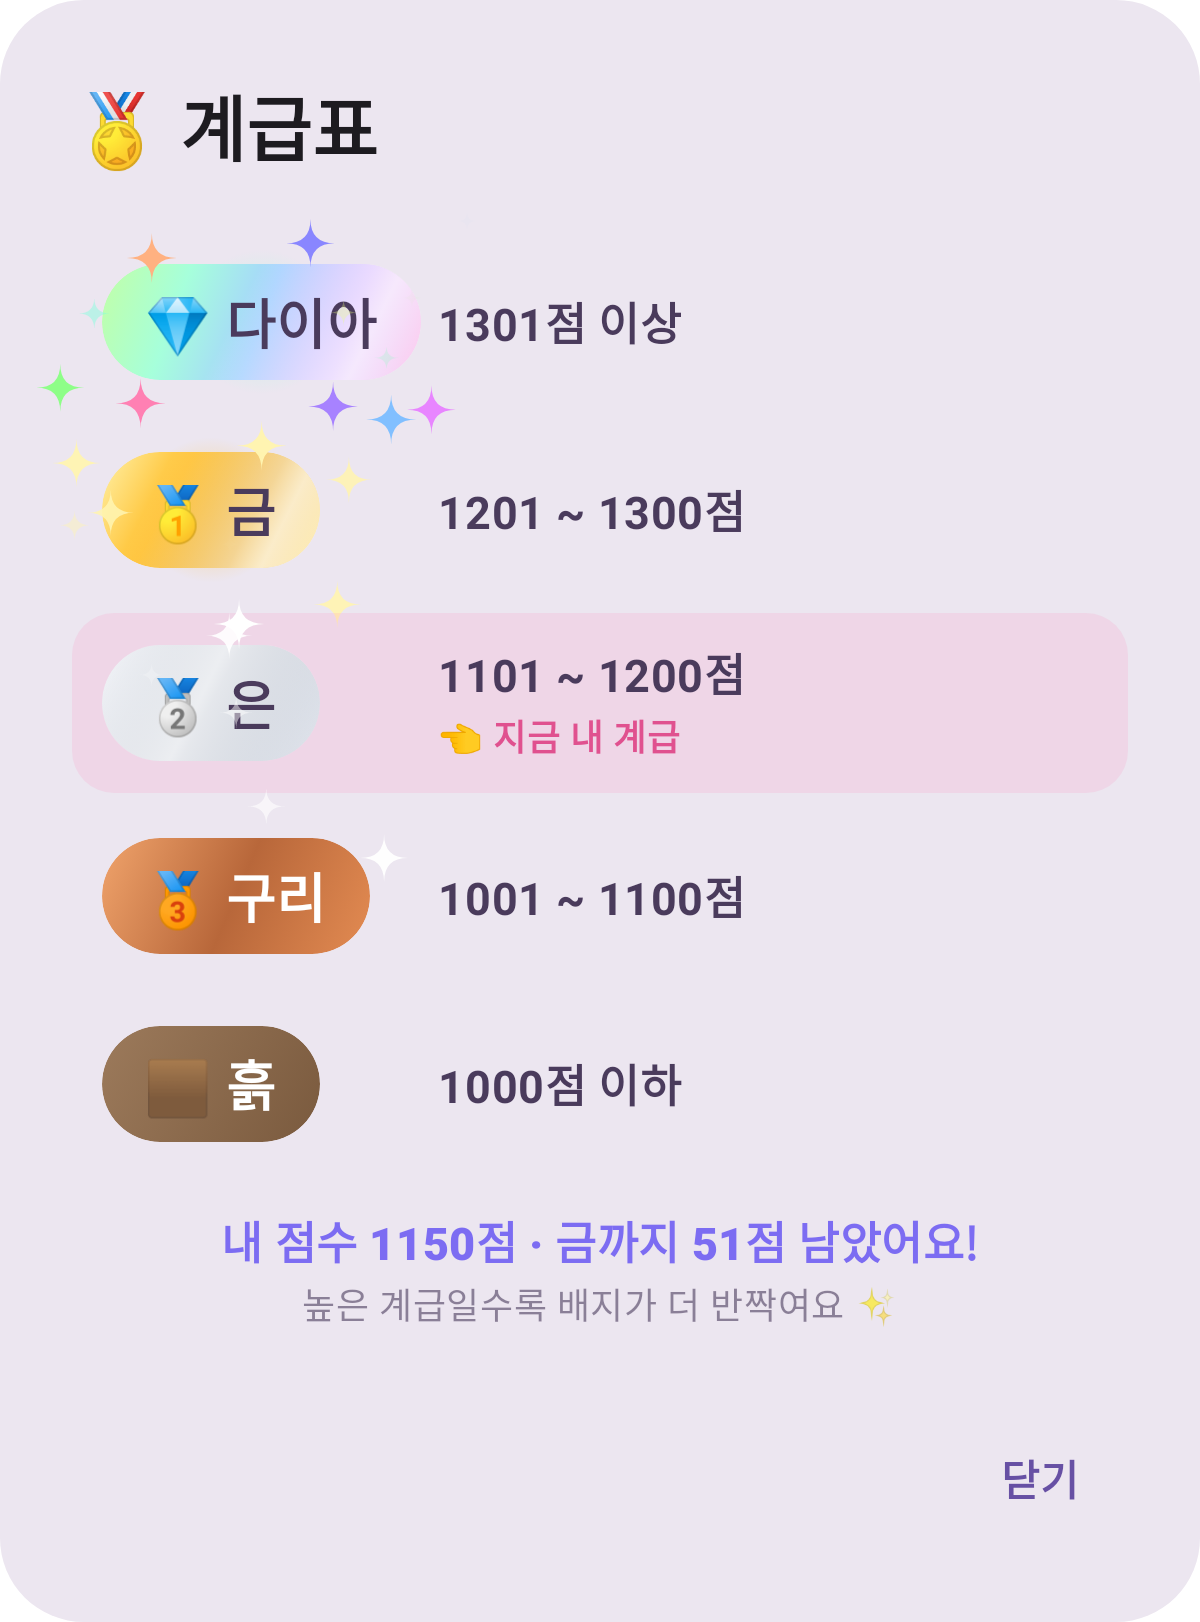
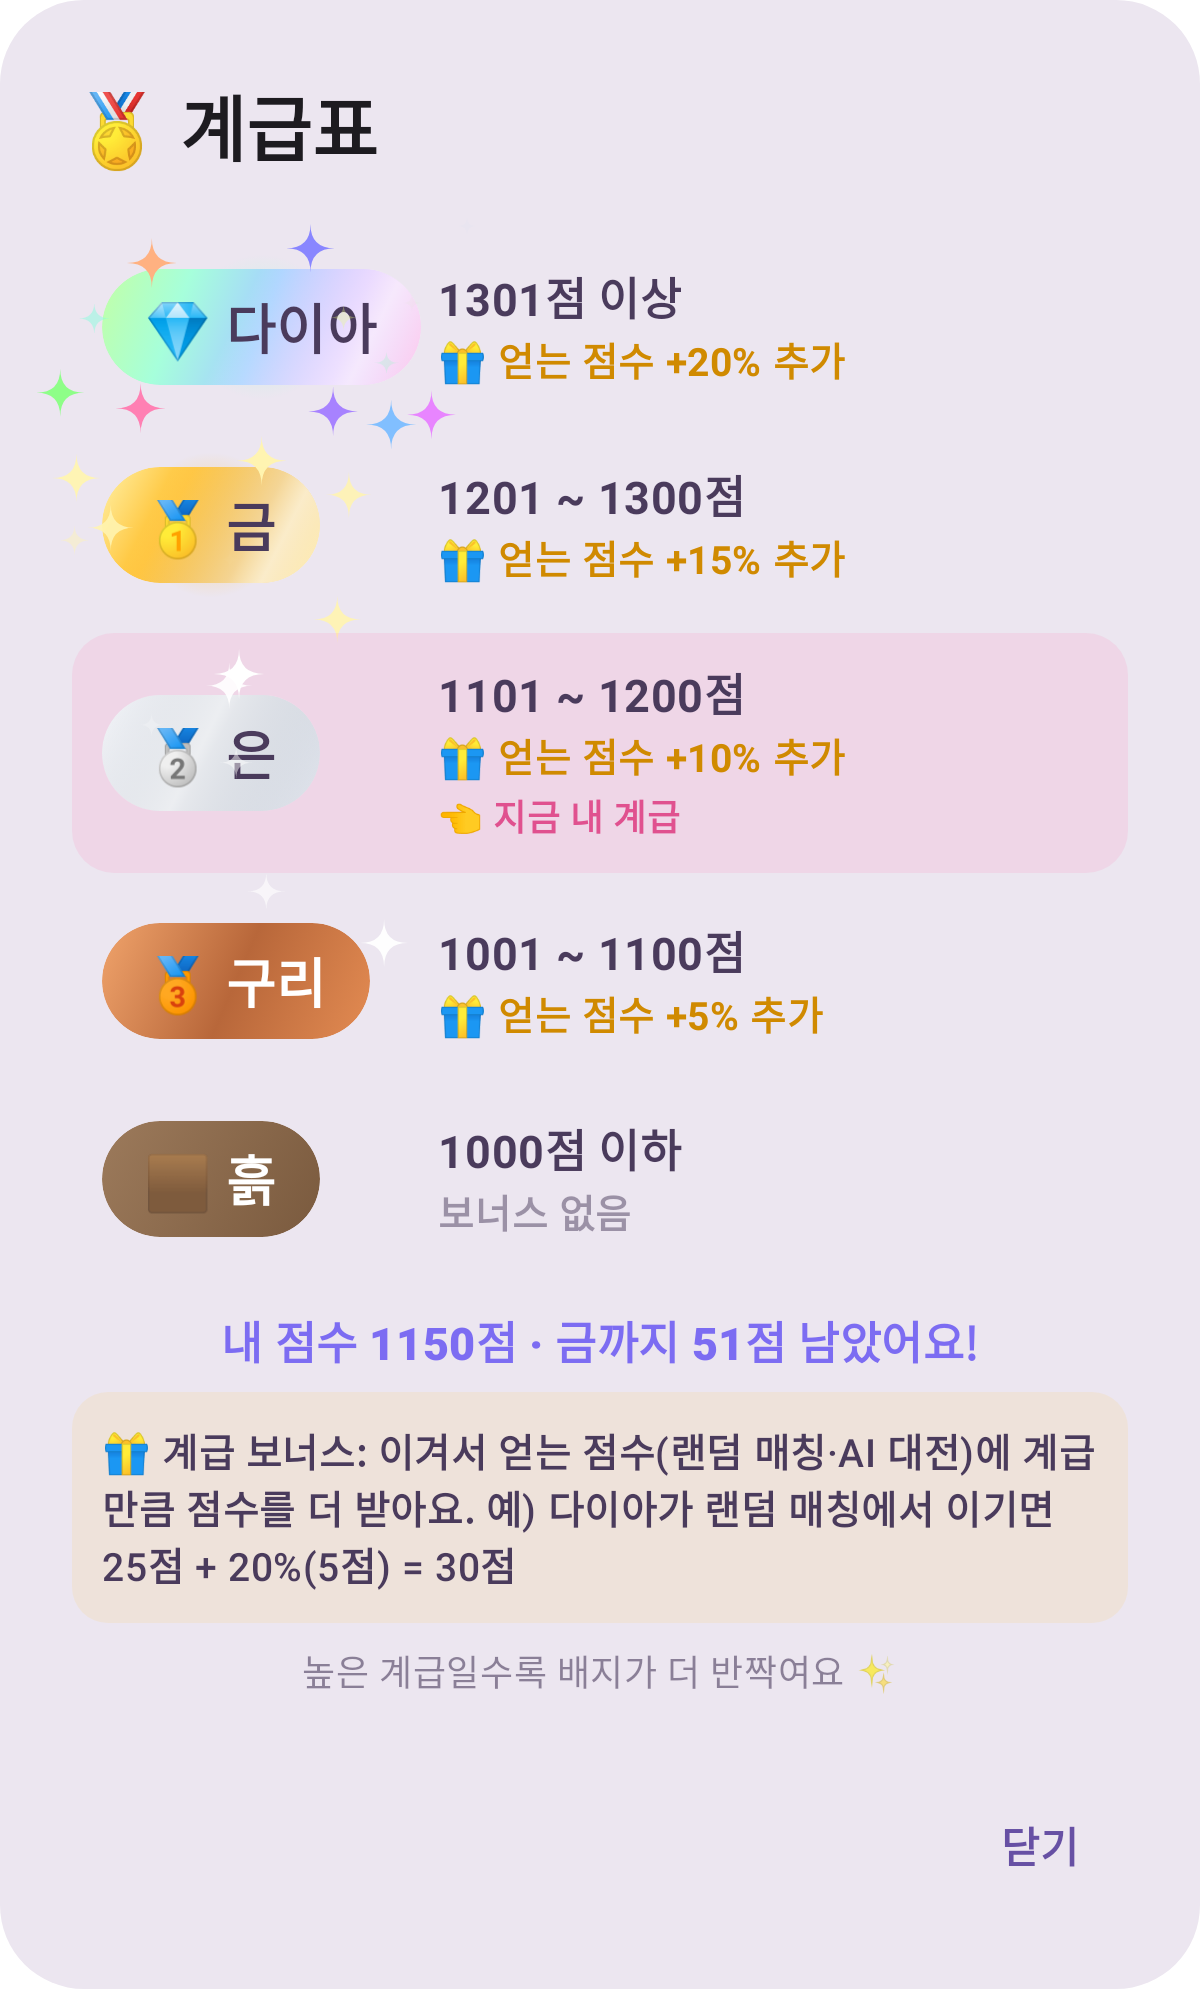
Add rank bonus on earned points (copper 5% to diamond 20%)
Server adds the winner's rank bonus to online and AI wins and records it
on the game; the result screen and rank popup explain the bonus.

Claude-Session: https://claude.ai/code/session_01BuUDiGkM2tHykbpiLtTpg7

diff --git a/app/src/main/java/com/bubble/game/ui/Screens.kt b/app/src/main/java/com/bubble/game/ui/Screens.kt
@@ -698,6 +698,12 @@ private fun ResultOverlay(g: GameUi, rewardOffer: Int?, onLobby: () -> Unit, onA
                         fontSize = 26.sp, fontWeight = FontWeight.Black,
                         color = if ((d ?: 0) >= 0) Ui.accent else Ui.danger,
                     )
+                    if (g.scoreBonus > 0) {
+                        Text(
+                            "✨ 계급 보너스 +${g.scoreBonus}점 포함",
+                            fontSize = 14.sp, fontWeight = FontWeight.Bold, color = Ui.gold.copy(red = 0.85f, green = 0.6f, blue = 0f),
+                        )
+                    }
                     if (rewardOffer != null) {
                         Text(
                             "📺 로비로 갈 때 광고를 보면 ${rewardOffer}점을 돌려받아요",
@@ -1073,6 +1079,11 @@ private fun RanksDialog(myScore: Int, onDismiss: () -> Unit) {
                         }
                         Column(Modifier.weight(1f)) {
                             Text(range, fontWeight = FontWeight.Bold, fontSize = 15.sp, color = Ui.text)
+                            Text(
+                                if (r.bonusPercent > 0) "🎁 얻는 점수 +${r.bonusPercent}% 추가" else "보너스 없음",
+                                fontSize = 13.sp, fontWeight = FontWeight.Bold,
+                                color = if (r.bonusPercent > 0) Color(0xFFD08A00) else Ui.text.copy(alpha = 0.5f),
+                            )
                             if (isMine) Text("👈 지금 내 계급", fontSize = 12.sp, fontWeight = FontWeight.Black, color = Ui.primaryDark)
                         }
                     }
@@ -1087,6 +1098,18 @@ private fun RanksDialog(myScore: Int, onDismiss: () -> Unit) {
                     fontWeight = FontWeight.Black, fontSize = 15.sp, color = Ui.accent,
                     textAlign = TextAlign.Center, modifier = Modifier.fillMaxWidth(),
                 )
+                Spacer(Modifier.height(6.dp))
+                Text(
+                    "🎁 계급 보너스: 이겨서 얻는 점수(랜덤 매칭·AI 대전)에 계급만큼 점수를 더 받아요. " +
+                        "예) 다이아가 랜덤 매칭에서 이기면 25점 + 20%(5점) = 30점",
+                    fontSize = 13.sp, fontWeight = FontWeight.SemiBold, color = Ui.text,
+                    lineHeight = 19.sp,
+                    modifier = Modifier
+                        .fillMaxWidth()
+                        .background(Color(0x22FFC94D), RoundedCornerShape(12.dp))
+                        .padding(10.dp),
+                )
+                Spacer(Modifier.height(6.dp))
                 Text(
                     "높은 계급일수록 배지가 더 반짝여요 ✨",
                     fontSize = 12.sp, color = Ui.text.copy(alpha = 0.6f),

diff --git a/functions/src/index.ts b/functions/src/index.ts
@@ -9,7 +9,7 @@ import { CallableRequest, HttpsError, onCall, onRequest } from "firebase-functio
 import { logger } from "firebase-functions";
 import { googleKeyLookup, verifySsv } from "./ssv";
 import { AiLevel, chooseMove, isAiLevel } from "./ai";
-import { ANIMALS, DEFAULT_TURN_MS, POTION_PRICE, revivesForGame, turnLimitAgainst } from "./catalog";
+import { ANIMALS, DEFAULT_TURN_MS, POTION_PRICE, rankBonus, revivesForGame, turnLimitAgainst } from "./catalog";
 import { applyMove, Board, decodeMove, isLegal, MAX_SPLITS, opponent, Side, winner } from "./game";
 
 initializeApp();
@@ -113,17 +113,22 @@ function finishGame(
     const human: Side = game.catUid === AI_UID ? "HAMSTER" : "CAT";
     const humanSnap = human === "CAT" ? users.cat : users.ham;
     const pts = AI_POINTS[game.vsAi];
-    const delta = win === human ? pts.win : -Math.min(-pts.lose, score(humanSnap));
+    const bonus = win === human ? rankBonus(pts.win, score(humanSnap)) : 0;
+    const delta = win === human ? pts.win + bonus : -Math.min(-pts.lose, score(humanSnap));
     tx.update(gameRef, {
       ...extra, status: "finished", winner: win, reason,
       [human === "CAT" ? "catDelta" : "hamDelta"]: delta,
+      [human === "CAT" ? "catBonus" : "hamBonus"]: bonus,
     });
     if (delta !== 0) tx.update(humanSnap.ref, { score: FieldValue.increment(delta) });
     return;
   }
-  const catDelta = catWon ? WIN_POINTS : -Math.min(LOSE_POINTS, score(users.cat));
-  const hamDelta = catWon ? -Math.min(LOSE_POINTS, score(users.ham)) : WIN_POINTS;
-  tx.update(gameRef, { ...extra, status: "finished", winner: win, reason, catDelta, hamDelta });
+  // 이긴 쪽은 계급 보너스(구리 5% ~ 다이아 20%)를 더 받음
+  const catBonus = catWon ? rankBonus(WIN_POINTS, score(users.cat)) : 0;
+  const hamBonus = catWon ? 0 : rankBonus(WIN_POINTS, score(users.ham));
+  const catDelta = catWon ? WIN_POINTS + catBonus : -Math.min(LOSE_POINTS, score(users.cat));
+  const hamDelta = catWon ? -Math.min(LOSE_POINTS, score(users.ham)) : WIN_POINTS + hamBonus;
+  tx.update(gameRef, { ...extra, status: "finished", winner: win, reason, catDelta, hamDelta, catBonus, hamBonus });
   tx.update(users.cat.ref, {
     score: FieldValue.increment(catDelta),
     [catWon ? "wins" : "losses"]: FieldValue.increment(1),

diff --git a/app/src/main/java/com/bubble/game/data/OnlineRepository.kt b/app/src/main/java/com/bubble/game/data/OnlineRepository.kt
@@ -62,6 +62,9 @@ data class OnlineGame(
     val turnStartedAt: Long,
     val catDelta: Int?,
     val hamDelta: Int?,
+    /** 이긴 쪽이 받은 계급 보너스 점수 (catDelta/hamDelta에 포함됨) */
+    val catBonus: Int,
+    val hamBonus: Int,
     val catSkin: Animal?,
     val hamSkin: Animal?,
     /** 각자 자기 차례에 쓸 수 있는 시간 */
@@ -81,6 +84,8 @@ data class OnlineGame(
     }
 
     fun deltaFor(side: Side): Int? = if (side == Side.CAT) catDelta else hamDelta
+
+    fun bonusFor(side: Side): Int = if (side == Side.CAT) catBonus else hamBonus
 }
 
 /** 서버가 거절한 요청. [message]는 사용자에게 그대로 보여줘도 되는 한국어 문장입니다. */
@@ -253,6 +258,8 @@ class OnlineRepository(context: Context) {
             turnStartedAt = getLong("turnStartedAt") ?: System.currentTimeMillis(),
             catDelta = getLong("catDelta")?.toInt(),
             hamDelta = getLong("hamDelta")?.toInt(),
+            catBonus = (getLong("catBonus") ?: 0).toInt(),
+            hamBonus = (getLong("hamBonus") ?: 0).toInt(),
             catSkin = Animal.of(getString("catSkin")),
             hamSkin = Animal.of(getString("hamSkin")),
             catTurnMs = getLong("catTurnMs") ?: TURN_LIMIT_MS,

diff --git a/app/src/main/java/com/bubble/game/game/Catalog.kt b/app/src/main/java/com/bubble/game/game/Catalog.kt
@@ -3,13 +3,17 @@ package com.bubble.game.game
 /**
  * 계급. 1000점 이하는 흙, 이후 100점마다 한 단계씩 올라갑니다.
  * [sparkle]이 클수록 배지의 반짝임 효과가 화려해집니다.
+ * [bonusPercent]: 이겨서 얻는 점수에 추가로 붙는 비율.
  */
-enum class Rank(val label: String, val emoji: String, val minScore: Int, val sparkle: Int) {
-    DIRT("흙", "🟫", Int.MIN_VALUE, 0),
-    COPPER("구리", "🥉", 1001, 1),
-    SILVER("은", "🥈", 1101, 2),
-    GOLD("금", "🥇", 1201, 3),
-    DIAMOND("다이아", "💎", 1301, 4);
+enum class Rank(val label: String, val emoji: String, val minScore: Int, val sparkle: Int, val bonusPercent: Int) {
+    DIRT("흙", "🟫", Int.MIN_VALUE, 0, 0),
+    COPPER("구리", "🥉", 1001, 1, 5),
+    SILVER("은", "🥈", 1101, 2, 10),
+    GOLD("금", "🥇", 1201, 3, 15),
+    DIAMOND("다이아", "💎", 1301, 4, 20);
+
+    /** 이겨서 얻는 점수 [base]에 붙는 보너스 (반올림). functions/src/catalog.ts의 rankBonus와 같게. */
+    fun bonusFor(base: Int): Int = if (base > 0) Math.round(base * bonusPercent / 100.0).toInt() else 0
 
     companion object {
         fun of(score: Int): Rank = entries.last { score >= it.minScore }

diff --git a/functions/test/game.test.ts b/functions/test/game.test.ts
@@ -66,7 +66,7 @@ test("revive potion brings back a dead set once", () => {
   assert.deepEqual(decodeMove("R:1"), { kind: "revive", index: 1 });
 });
 
-import { revivesForGame, turnLimitAgainst } from "../src/catalog";
+import { rankBonus, rankBonusPercent, revivesForGame, turnLimitAgainst } from "../src/catalog";
 
 test("revives per game are capped at three and follow potions owned", () => {
   assert.equal(revivesForGame(0), 0);
@@ -81,4 +81,16 @@ test("opponent animal shortens my turn", () => {
   assert.equal(turnLimitAgainst("DOG"), 15_000);
   assert.equal(turnLimitAgainst("GIRAFFE"), 10_000);
   assert.equal(turnLimitAgainst("DRAGON"), 30_000);
+});
+
+test("rank bonus adds 0/5/10/15/20 percent to earned points", () => {
+  assert.deepEqual([1000, 1001, 1101, 1201, 1301].map(rankBonusPercent), [0, 5, 10, 15, 20]);
+  assert.equal(rankBonus(25, 1000), 0);
+  assert.equal(rankBonus(25, 1050), 1); // 1.25 -> 1
+  assert.equal(rankBonus(25, 1150), 3); // 2.5 -> 3
+  assert.equal(rankBonus(25, 1250), 4); // 3.75 -> 4
+  assert.equal(rankBonus(25, 1400), 5);
+  assert.equal(rankBonus(10, 1400), 2);
+  assert.equal(rankBonus(1, 1400), 0); // 0.2 -> 0
+  assert.equal(rankBonus(-15, 1400), 0); // 잃는 점수엔 없음
 });

diff --git a/functions/src/catalog.ts b/functions/src/catalog.ts
@@ -25,3 +25,20 @@ export function turnLimitAgainst(opponentEquipped: unknown): number {
     ? ANIMALS[opponentEquipped].opponentTurnMs
     : DEFAULT_TURN_MS;
 }
+
+/**
+ * 계급 보너스: 이겨서 얻는 점수에 추가로 붙는 비율(%).
+ * 흙(1000점 이하) 0%, 구리(1001~) 5%, 은(1101~) 10%, 금(1201~) 15%, 다이아(1301~) 20%.
+ */
+export function rankBonusPercent(score: number): number {
+  if (score >= 1301) return 20;
+  if (score >= 1201) return 15;
+  if (score >= 1101) return 10;
+  if (score >= 1001) return 5;
+  return 0;
+}
+
+/** 얻는 점수 [base]에 붙는 보너스 점수 (반올림). */
+export function rankBonus(base: number, score: number): number {
+  return base > 0 ? Math.round((base * rankBonusPercent(score)) / 100) : 0;
+}

diff --git a/app/src/test/java/com/bubble/game/game/CatalogTest.kt b/app/src/test/java/com/bubble/game/game/CatalogTest.kt
@@ -18,6 +18,18 @@ class CatalogTest {
     }
 
     @Test
+    fun rankBonusMatchesServer() {
+        assertEquals(listOf(0, 5, 10, 15, 20), Rank.entries.map { it.bonusPercent })
+        assertEquals(0, Rank.DIRT.bonusFor(25))
+        assertEquals(1, Rank.COPPER.bonusFor(25))
+        assertEquals(3, Rank.SILVER.bonusFor(25))
+        assertEquals(4, Rank.GOLD.bonusFor(25))
+        assertEquals(5, Rank.DIAMOND.bonusFor(25))
+        assertEquals(0, Rank.DIAMOND.bonusFor(1))
+        assertEquals(0, Rank.DIAMOND.bonusFor(-15))
+    }
+
+    @Test
     fun animalsMatchServerCatalog() {
         assertEquals(listOf(500, 750, 1000), Animal.entries.map { it.price })
         assertEquals(listOf(20, 15, 10), Animal.entries.map { it.opponentTurnSec })

diff --git a/app/src/main/java/com/bubble/game/ui/AppViewModel.kt b/app/src/main/java/com/bubble/game/ui/AppViewModel.kt
@@ -52,6 +52,8 @@ data class GameUi(
     val explosion: Explosion? = null,
     val turnDeadline: Long? = null,
     val scoreDelta: Int? = null,
+    /** scoreDelta 중 계급 보너스 */
+    val scoreBonus: Int = 0,
     /** 서버가 수를 거절했을 때 등 잠깐 보여줄 안내 문구. */
     val notice: String? = null,
     val busy: Boolean = false,
@@ -303,6 +305,7 @@ class AppViewModel(app: Application) : AndroidViewModel(app) {
             mySkin = og.skinOf(side),
             opponentSkin = og.skinOf(side.opponent),
             scoreDelta = og.deltaFor(side),
+            scoreBonus = og.bonusFor(side),
             notice = if (newMove) null else notice,
             busy = false,
         )
